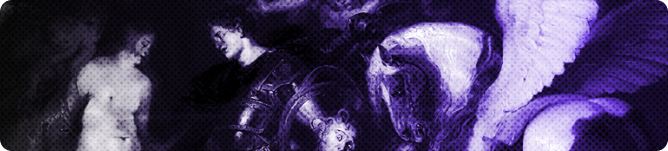
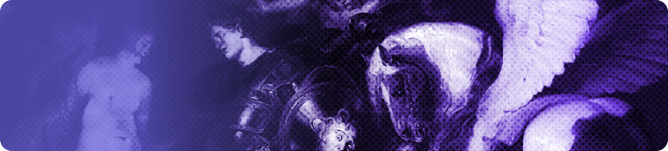
fix: ui fixes

diff --git a/components/Swap/index.tsx b/components/Swap/index.tsx
@@ -729,10 +729,10 @@ export const Swap: FunctionComponent<ButtonProps> = () => {
 						<Flex
 							flexDirection="column"
 							borderRadius="2xl"
-							bgColor="transparent"
 							borderWidth="1px"
-							borderColor={theme.text.cyan}
+							borderColor={theme.text.cyanPurple}
 							mt="1.5rem"
+							color={theme.text.mono}
 						>
 							<Text fontSize="md" fontWeight="medium" px="1.375rem" py="0.5rem">
 								{translation("swap.price")}
@@ -741,11 +741,11 @@ export const Swap: FunctionComponent<ButtonProps> = () => {
 								flexDirection="row"
 								justifyContent="space-around"
 								py="0.5rem"
-								px="1rem"
 								borderRadius="2xl"
 								borderWidth="1px"
-								borderColor={theme.text.cyan}
-								bgColor={theme.bg.blueNavy}
+								borderColor={theme.text.cyanPurple}
+								bgColor={theme.bg.bluePink}
+								color={theme.text.mono}
 							>
 								<Flex fontSize="sm" flexDirection="column" textAlign="center">
 									<Text fontWeight="semibold">
@@ -774,10 +774,12 @@ export const Swap: FunctionComponent<ButtonProps> = () => {
 							</Flex>
 						</Flex>
 					</Collapse>
+					{isExpert}
+					{isExpert && isOtherWallet}
 					{!isERC20 && !isWrap && (
 						<Button
 							w="100%"
-							mt="2rem"
+							mt={isExpert ? "1rem" : "2rem"}
 							py="6"
 							px="6"
 							borderRadius="67px"
@@ -790,12 +792,15 @@ export const Swap: FunctionComponent<ButtonProps> = () => {
 							fontSize="lg"
 							fontWeight="semibold"
 							disabled={!canSubmit}
+							_hover={
+								canSubmit
+									? { bgColor: theme.bg.bluePurple }
+									: { opacity: "0.3" }
+							}
 						>
 							{swapButtonValidation}
 						</Button>
 					)}
-					{isExpert}
-					{isExpert && isOtherWallet}
 					<Flex>
 						{isERC20 && isConnected && !isWrap && (
 							<Button
@@ -1020,7 +1025,7 @@ export const Swap: FunctionComponent<ButtonProps> = () => {
 					{tokensGraphCandleData.length === 0 && (
 						<Text
 							textAlign="center"
-							color="#fff"
+							color={theme.text.mono}
 							fontWeight="400"
 							fontSize="sm"
 						>

diff --git a/components/Modals/ConfirmSwap.tsx b/components/Modals/ConfirmSwap.tsx
@@ -72,7 +72,7 @@ export const ConfirmSwap: React.FC<IModal> = props => {
 			<ModalContent
 				borderRadius="3xl"
 				border="1px solid transparent;"
-				background={`linear-gradient(${theme.bg.blueNavy}, ${theme.bg.blueNavy}) padding-box, linear-gradient(312.16deg, rgba(86, 190, 216, 0.3) 30.76%, rgba(86, 190, 216, 0) 97.76%) border-box`}
+				background={`linear-gradient(${theme.bg.blueNavyLight}, ${theme.bg.blueNavyLight}) padding-box, linear-gradient(312.16deg, rgba(86, 190, 216, 0.3) 30.76%, rgba(86, 190, 216, 0) 97.76%) border-box`}
 			>
 				<ModalHeader
 					display="flex"
@@ -92,11 +92,11 @@ export const ConfirmSwap: React.FC<IModal> = props => {
 				<ModalBody mb="4">
 					<Flex
 						flexDirection="row"
-						alignItems="stretch"
+						alignItems="center"
 						mb="6"
 						justifyContent="center"
 					>
-						<Flex flexDirection="column" gap="14" pr="2" alignItems="flex-end">
+						<Flex flexDirection="column" gap="14" pr="2">
 							<Text textAlign="right" fontWeight="semibold">
 								{tokenInputValue?.inputFrom?.value}
 							</Text>
@@ -127,7 +127,7 @@ export const ConfirmSwap: React.FC<IModal> = props => {
 							<Text>{selectedTokens[1]?.symbol}</Text>
 						</Flex>
 					</Flex>
-					<Text fontSize="sm">
+					<Text fontSize="sm" color={theme.text.mono}>
 						Output is estimated. You will receive at least{" "}
 						{receiveEstimatedValue} {receiveOutput} or the transaction will
 						revert.
@@ -187,6 +187,7 @@ export const ConfirmSwap: React.FC<IModal> = props => {
 								onTx();
 								onClose();
 							}}
+							_hover={{ bgColor: theme.bg.bluePurple }}
 							fontWeight="semibold"
 						>
 							Confirm {txName}

diff --git a/components/Header/SettingsButton.tsx b/components/Header/SettingsButton.tsx
@@ -109,7 +109,7 @@ export const SettingsButton: FunctionComponent<IButtonProps> = props => {
 												as={MdHelpOutline}
 												h="4"
 												w="4"
-												mt="3px"
+												mt="0.25rem"
 												color={theme.icon.whiteGray}
 												borderRadius="full"
 											/>
@@ -215,7 +215,7 @@ export const SettingsButton: FunctionComponent<IButtonProps> = props => {
 											as={MdHelpOutline}
 											h="4"
 											w="4"
-											mt="3px"
+											mt="0.25rem"
 											color={theme.icon.whiteGray}
 											borderRadius="full"
 										/>
@@ -249,8 +249,11 @@ export const SettingsButton: FunctionComponent<IButtonProps> = props => {
 							mt="4"
 						>
 							<Flex
+								pt="0.1rem"
+								mt="4"
 								flexDirection={["row", "row", "row", "row"]}
 								pb={["2", "2", "0", "0"]}
+								alignItems="center"
 							>
 								<Text
 									fontSize={["sm", "md", "md", "md"]}
@@ -273,9 +276,8 @@ export const SettingsButton: FunctionComponent<IButtonProps> = props => {
 												as={MdHelpOutline}
 												h="4"
 												w="4"
-												mt="3px"
+												mt="0.25rem"
 												color={theme.icon.whiteGray}
-												backgroundColor="gray.800"
 												borderRadius="full"
 											/>
 										</Flex>

diff --git a/container/Airdrop/index.tsx b/container/Airdrop/index.tsx
@@ -34,13 +34,13 @@ export const AirdropContainer: NextPage = () => {
 					zIndex="99"
 					position="relative"
 					borderTopRadius="2xl"
-					backgroundColor={theme.bg.blueNavy}
+					backgroundColor="transparent"
 					w={["18rem", "md", "2xl", "2xl"]}
-					box-shadow="0px 0px 0px 1px rgba(0, 0, 0, 0.1)"
+					box-shadow=" 0px 20px 25px -5px rgba(0, 0, 0, 0.1), 0px 10px 10px -5px rgba(0, 0, 0, 0.04)"
 					filter="drop-shadow(0px 5px 10px rgba(0, 0, 0, 0.2)) drop-shadow(0px 15px 40px rgba(0, 0, 0, 0.4))"
 				>
 					<Img
-						src="images/backgrounds/PsysAirdrop.png"
+						src={theme.bg.psysAirdrop}
 						position="absolute"
 						zIndex="base"
 						w="100%"
@@ -72,6 +72,7 @@ export const AirdropContainer: NextPage = () => {
 						w="65%"
 						h="100%"
 						borderTopLeftRadius="2xl"
+						borderBottomRadius="2xl"
 						zIndex="base"
 						position="absolute"
 						background="linear-gradient(89.54deg, rgba(8, 17, 32, 0.9) 44.27%, rgba(8, 17, 32, 0) 100.3%)"
@@ -84,7 +85,7 @@ export const AirdropContainer: NextPage = () => {
 								<Flex>
 									<Text
 										textAlign="center"
-										color="white"
+										color={theme.text.mono}
 										px={["4", "2", "2", "2"]}
 										fontSize={["sm", "sm", "md", "md"]}
 									>

diff --git a/hooks/usePicasso.ts b/hooks/usePicasso.ts
@@ -69,9 +69,14 @@ const usePicasso = () => {
 			theme: useColorModeValue(BsFillSunFill, BsFillMoonFill),
 		},
 		bg: {
+			bluePink: useColorModeValue("#FAF5FF", "#0B172C"),
 			stakeBanner: useColorModeValue(
 				"/images/backgrounds/LightBannerStake.png",
 				"/images/backgrounds/BannerStake.png"
+			),
+			psysAirdrop: useColorModeValue(
+				"/images/backgrounds/LightPsysAirdrop.png",
+				"/images/backgrounds/PsysAirdrop.png"
 			),
 			psysReward: useColorModeValue(
 				"/images/backgrounds/LightPsysReward.png",
@@ -111,7 +116,7 @@ const usePicasso = () => {
 			bluePurple: useColorModeValue("#8C15E8", "#0753B2"),
 			topHeader: useColorModeValue("#FFFFFF", "#000000"),
 			primary: useColorModeValue("#EDF2F7", "#000913"),
-			secondary: useColorModeValue("gray.300", "gray.800"), // tooltip background
+			secondary: useColorModeValue("gray.300", "#171923"), // tooltip background
 			bgPrimary: useColorModeValue("#f7f8fa", "#2c2f36"),
 			whiteGray: useColorModeValue("#665EE1", "rgba(8, 17, 32, 1)"), //
 			expertMode: useColorModeValue("#FFFFFF", "#081120"), //

diff --git a/components/Modals/SelectCoin.tsx b/components/Modals/SelectCoin.tsx
@@ -203,13 +203,14 @@ export const SelectCoinModal: React.FC<IModal> = props => {
 					<InputGroup>
 						<Input
 							borderRadius="full"
-							borderColor="rgba(21, 61, 111, 1)"
+							borderColor={theme.bg.blueNavyLightness}
 							_placeholder={{ color: theme.text.input, opacity: "0.6" }}
 							placeholder="Search, name or paste address"
 							onChange={handleInput}
 							py={["0.1rem", "0.1rem", "1", "1"]}
 							pl="10"
 							_focus={{ outline: "none" }}
+							_hover={{}}
 						/>
 						<Flex
 							position="absolute"
@@ -275,6 +276,7 @@ export const SelectCoinModal: React.FC<IModal> = props => {
 								handleSelectToken(buttonId as number, token);
 								onClose();
 							}}
+							_hover={{ bgColor: theme.bg.max }}
 						>
 							<Flex
 								gap="4"

diff --git a/container/Pools/index.tsx b/container/Pools/index.tsx
@@ -158,7 +158,9 @@ export const PoolsContainer: NextPage = () => {
 										pointerEvents="none"
 										pb="0.3rem"
 										// eslint-disable-next-line react/no-children-prop
-										children={<MdSearch color={theme.text.cyan} size={20} />}
+										children={
+											<MdSearch color={theme.icon.searchIcon} size={20} />
+										}
 									/>
 									<Input
 										borderColor={theme.bg.blueNavyLightness}
@@ -173,6 +175,7 @@ export const PoolsContainer: NextPage = () => {
 										py={["0.2rem", "0.2rem", "1", "1"]}
 										pl="10"
 										_focus={{ outline: "none" }}
+										_hover={{}}
 									/>
 								</InputGroup>
 							</Flex>

diff --git a/components/Header/index.tsx b/components/Header/index.tsx
@@ -62,7 +62,7 @@ export const Header: React.FC = () => {
 				<Img
 					w={["7", "8", "6", "6"]}
 					h={["7", "8", "6", "6"]}
-					src="icons/pegasys.png"
+					src={theme.icon.pegasysLogo}
 					ml={["2", "4", "4", "4"]}
 					mt={["1.5", "1", "2", "1.5"]}
 					position="absolute"

diff --git a/components/Airdrop/BorderAnimation.tsx b/components/Airdrop/BorderAnimation.tsx
@@ -17,7 +17,7 @@ export const BorderAnimation: FunctionComponent<ILinkProps> = props => {
 			w={["18rem", "md", "2xl", "2xl"]}
 			py="12"
 			gap="2.5"
-			bgColor={theme.bg.whiteGray}
+			bgColor={theme.bg.blueNavyLight}
 			justifyContent="center"
 			borderBottomRadius="2xl"
 		>

diff --git a/container/Farm/index.tsx b/container/Farm/index.tsx
@@ -126,6 +126,7 @@ export const FarmContainer: NextPage = () => {
 								py={["0.1rem", "0.1rem", "1", "1"]}
 								pl="10"
 								_focus={{ outline: "none" }}
+								_hover={{}}
 							/>
 							<Flex
 								pt="1rem"

diff --git a/components/Modals/ManageToken.tsx b/components/Modals/ManageToken.tsx
@@ -60,6 +60,7 @@ export const ManageToken: React.FC<IModal> = props => {
 							px="6"
 							bgColor={theme.bg.blackAlpha}
 							_focus={{ outline: "none" }}
+							_hover={{}}
 						/>
 						<Button
 							py="2"
